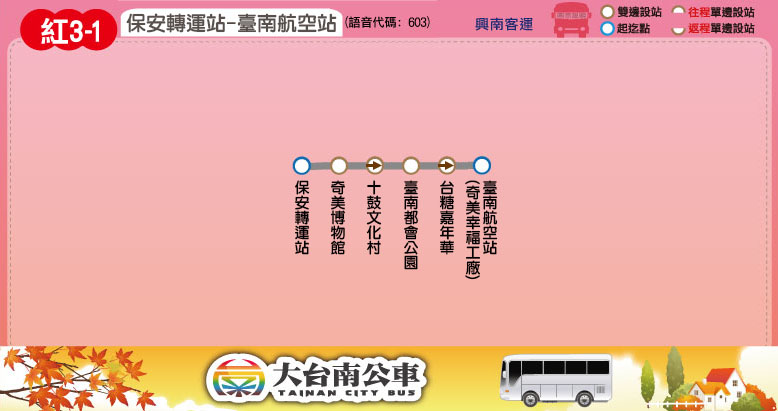
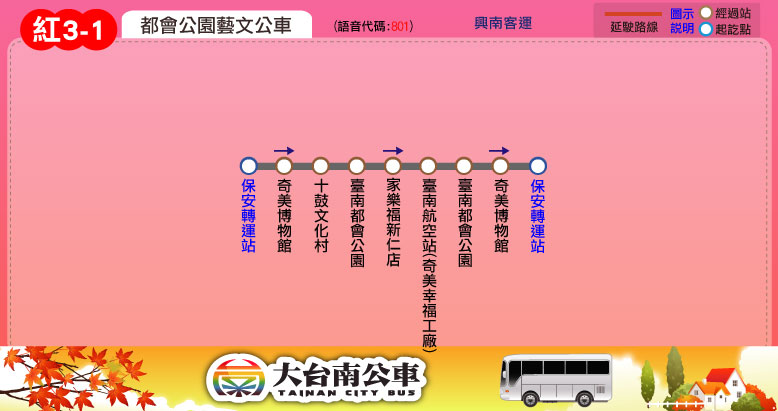
更新時刻表：藍幹線、藍2

diff --git a/route/fare_and_time/blue_2.js b/route/fare_and_time/blue_2.js
@@ -1,11 +1,15 @@
-blue_2_interval_name = ["佳里","佳里興","大灣","學甲","東中洲","溪底寮","北門","南鯤鯓"];
+blue_2_interval_name = ["佳里","佳里興","大灣","學甲","東中洲","溪底寮","三寮灣","蘆竹溝","三寮灣","北門","南鯤鯓"];
 blue_2_interval_stop = [
 ["佳里站","佳里公園"], // 佳里
 ["蕭壠文化園區","北門農工","奇美佳里分院","佳里興","佳里興北"], // 佳里興
-["營頂","溪州","大灣","清濟宮","中華、華宗路口"], // 大灣
-["東寮","學甲區公所","學甲","學甲市場","西學甲","下溪洲"], // 學甲
+["營頂","溪州","大灣","清濟宮"], // 大灣
+["中華、華宗路口","東寮","學甲區公所","學甲","學甲市場","西學甲","下溪洲"], // 學甲
 ["光華","東中洲"], // 東中洲
-["西廍","二重港","溪底寮","文山派出所","東三寮灣","三寮灣","蘆竹溝","北門國中","西保宮","溪仔寮","泰安宮","井仔腳","西山"], // 溪底寮
+["西廍","二重港","溪底寮","文山派出所"], // 溪底寮
+["東三寮灣","三寮灣"], // 三寮灣
+["蘆竹溝"], // 蘆竹溝
+["三寮灣","東三寮灣"],
+["文山派出所","北門國中","西保宮","溪仔寮","泰安宮","井仔腳","西山"], // 溪底寮
 ["北門區公所","北門","北門橋頭"], // 北門
 ["小蚵寮","蚵寮","南鯤鯓"] // 南鯤鯓
 ];
@@ -16,8 +20,12 @@ blue_2_fare = [
 [27,26,26,26],
 [36,26,26,26,26],
 [45,34,27,26,26,26],
-[56,45,38,29,26,26,26],
-[66,55,48,39,26,26,26,26]
+[53,42,35,26,26,26,26],
+[59,48,41,32,26,26,26,26],
+[53,42,35,26,26,26,26,26,26],
+[45,34,27,26,26,26,26,26,26,26],
+[56,45,38,29,26,26,26,26,26,26,26],
+[66,55,48,39,29,26,29,34,29,26,26,26]
 ];
 // format = [time at the start stop] or
 // [time, other] or
@@ -25,7 +33,11 @@ blue_2_fare = [
 blue_2_main_stop_name = ["佳里站","奇美<br />佳里分院","大灣","學甲","東中洲","溪底寮","北門國中","井仔腳","北門","南鯤鯓"];
 blue_2_main_stop_time_consume = [0, 5, 10, 15, 20, 24, 27, 30, 37, 45];
 blue_2_important_stop = [0, 3, 7, 9]; // 佳里站, 學甲, 井仔腳, 南鯤鯓
-blue_2_time_go = [["05:50",['繞',7]],["06:30",['繞',7,[8,-7,9,-3]]],["08:00"],["09:10"],["11:00"],["12:10"],["13:20"],["14:30"],
-["15:50"],["17:30"],["18:30"],["19:50",[7,[8,-7,9,-3]]],["20:30",[7,[8,-7,9,-3]]],["21:10",[7,[8,-7,9,-3]]],["22:00",[7,[8,-7,9,-3]]]];
-blue_2_time_return = [["06:35",[7,[8,-3,6,-7]]],["07:15",[7,[8,-3,6,-7]]],["08:45"],["09:55"],["11:45"],["12:55"],["14:05"],["15:15"],
-["16:45",['繞']],["18:15"],["19:15"],["20:30",[7,[8,-3,6,-7]]],["21:10",[7,[8,-3,6,-7]]],["22:00",[7,[8,-3,6,-7]]],["22:35",[7,[8,-3,6,-7]]]];
+var Beimen_Junior_High_School = 6;
+var Jingzihjiao = 7;
+var Beimen = 8;
+var Nankunshen = 9;
+blue_2_time_go = [["05:50",['繞',Jingzihjiao]],["06:30",['繞',Jingzihjiao]],["08:00"],["09:10"],["11:00"],["12:10"],["13:20"],["14:30"],
+["15:50",[Jingzihjiao,[Beimen,-7,Nankunshen,-3]]],["17:30"],["18:30"],["19:50",[Jingzihjiao,[Beimen,-2,Nankunshen,-3]]],["20:30",[Jingzihjiao,[Beimen,-7,Nankunshen,-3]]],["21:10",[Jingzihjiao,[Beimen,-7,Nankunshen,-3]]],["22:00",[Jingzihjiao,[Beimen,-7,Nankunshen,-3]]]];
+blue_2_time_return = [["06:35",[Jingzihjiao,[Beimen_Junior_High_School,-5]]],["07:15",[Jingzihjiao,[Beimen_Junior_High_School,-5]]],["08:45"],["09:55"],["11:45"],["12:55"],["14:05"],["15:15"],
+["16:45",['繞',Jingzihjiao]],["18:15"],["19:15"],["20:30",[Jingzihjiao,[Beimen,-3,Beimen_Junior_High_School,-7]]],["21:10",[Jingzihjiao,[Beimen,-3,Beimen_Junior_High_School,-7]]],["22:00",[Jingzihjiao,[Beimen,-3,Beimen_Junior_High_School,-7]]],["22:35",[Jingzihjiao,[Beimen,-3,Beimen_Junior_High_School,-7]]]];

diff --git a/route/fare_and_time/yellow_6_1.js b/route/fare_and_time/yellow_6_1.js
@@ -37,8 +37,8 @@ yellow_6_1_main_stop_time_consume = [0, 6, 17, 25, 30, 36, 47, 60];
 yellow_6_1_important_stop = [0, 3, 7]; // 新營站, 後壁區公所, 白河站
 var Sinying = 0; // 新營站
 var Linchu_Reservoir = 6; // 林初埤
-yellow_6_1_time_go = [["07:30"],["08:00",['加']],["08:30"],["10:10"],["10:40",['加']],["11:10"],["13:10"],["13:40",['加']],["14:10"],["15:40"],["16:10",['加']],["16:40"]];
-yellow_6_1_time_return = [["08:40",[[Linchu_Reservoir,-5,Sinying,5]]],["09:10",['加',[Linchu_Reservoir,-5,Sinying,5]]],["09:40",[[Linchu_Reservoir,-5,Sinying,5]]],
-["11:20",[[Linchu_Reservoir,-5,Sinying,5]]],["11:50",['加',[Linchu_Reservoir,-5,Sinying,5]]],["12:20",[[Linchu_Reservoir,-5,Sinying,5]]],
-["14:20",[[Linchu_Reservoir,-5,Sinying,5]]],["14:50",['加',[Linchu_Reservoir,-5,Sinying,5]]],["15:20",[[Linchu_Reservoir,-5,Sinying,5]]],
-["16:50",[[Linchu_Reservoir,-5,Sinying,5]]],["17:20",['加',[Linchu_Reservoir,-5,Sinying,5]]],["17:50",[[Linchu_Reservoir,-5,Sinying,5]]]];
+yellow_6_1_time_go = [["07:30"],["08:30"],["10:10"],["11:10"],["13:10"],["14:10"],["15:40"],["16:40"]];
+yellow_6_1_time_return = [["08:40",[[Linchu_Reservoir,-5,Sinying,5]]],["09:40",[[Linchu_Reservoir,-5,Sinying,5]]],
+["11:20",[[Linchu_Reservoir,-5,Sinying,5]]],["12:20",[[Linchu_Reservoir,-5,Sinying,5]]],
+["14:20",[[Linchu_Reservoir,-5,Sinying,5]]],["15:20",[[Linchu_Reservoir,-5,Sinying,5]]],
+["16:50",[[Linchu_Reservoir,-5,Sinying,5]]],["17:50",[[Linchu_Reservoir,-5,Sinying,5]]]];

diff --git a/route/fare_and_time/blue.js b/route/fare_and_time/blue.js
@@ -31,12 +31,12 @@ blue_important_stop = [0, 2, 9, 10]; // 安平工業區, 臺南火車站, 西港
 blue_time_go = [["05:50"],["06:00"],["06:15"],["06:30"],["06:45"],["07:15"],["07:30"],["07:45"],["08:00"],["08:15"],["08:45"],
 ["09:00"],["09:15"],["09:30"],["09:45",['L']],["10:00"],["10:15"],["10:30"],["10:45"],["11:00"],["11:30"],["12:00"],
 ["12:15"],["12:30"],["12:45"],["13:00",['L']],["13:30"],["13:45"],["14:00"],["14:30"],["15:00"],["15:15"],
-["15:30"],["16:00"],["16:30",['L']],["16:45"],["17:00"],["17:15"],["17:30"],["17:45"],["18:00"],["18:30"],["19:00"],
+["15:30"],["16:00"],["16:25",['L']],["16:45"],["17:00"],["17:15"],["17:30"],["17:45"],["18:00"],["18:30"],["19:00"],
 ["19:30"],["20:00"],["20:30"],["21:00"],["21:15"],["21:30"],["22:00"]
 ];
 blue_time_return = [["06:00"],["06:15"],["06:30"],["06:45"],["07:00"],["07:15"],["07:30"],["07:45"],["08:00"],["08:15"],["08:45"],
 ["09:00"],["09:15"],["09:30"],["09:45"],["10:00"],["10:30"],["10:45"],["11:00"],["11:30",['L']],["11:45"],["12:00"],["12:15"],
 ["12:30"],["12:45"],["13:00"],["13:30"],["13:45"],["14:00"],["14:30",['L']],["15:00"],["15:15"],["15:30"],
-["16:00"],["16:30"],["17:00"],["17:15"],["17:30"],["17:45"],["18:00",['L']],["18:30"],["18:45"],["19:00"],["19:30"],
+["16:00"],["16:30"],["16:55"],["17:15"],["17:30"],["17:45"],["18:05",['L']],["18:30"],["18:45"],["19:00"],["19:30"],
 ["20:00"],["20:30"],["21:00"],["21:15"],["21:30"],["22:00"]
 ];

diff --git a/route/fare_and_time/red_3_1.js b/route/fare_and_time/red_3_1.js
@@ -2,7 +2,7 @@ red_3_1_interval_name = ["保安<br />轉運站","臺南都<br />會公園","臺
 red_3_1_interval_stop = [
 ["保安轉運站"], // 保安轉運站
 ["奇美博物館","十鼓文化村","臺南都會公園"], // 臺南都會公園
-["台糖嘉年華","臺南航空站(奇美幸福工廠)"] // 臺南航空站
+["家樂福新仁店","臺南航空站(奇美幸福工廠)"] // 臺南航空站
 ];
 red_3_1_fare = [
 [26],
@@ -12,7 +12,7 @@ red_3_1_fare = [
 // format = [time at the start stop] or
 // [time, other] or
 // [time, start_stop, end_stop, other]
-red_3_1_main_stop_name = ["保安轉運站","奇美<br />博物館","十鼓<br />文化村","臺南<br />都會公園","台糖<br />嘉年華","臺南航空站<br />(奇美幸福工廠)"];
+red_3_1_main_stop_name = ["保安轉運站","奇美<br />博物館","十鼓<br />文化村","臺南<br />都會公園","家樂福<br />新仁店","臺南航空站<br />(奇美幸福工廠)"];
 red_3_1_main_stop_time_consume = [0, 3, 4, 6, 8, 10];
 skip_stop_list = [2,4];
 red_3_1_important_stop = [0, 1, 5]; // 保安轉運站, 奇美博物館, 臺南航空站

diff --git a/orange/orange_9.html b/orange/orange_9.html
@@ -22,7 +22,7 @@
 	block_header();
 	block_route_map(null);
 	block_route_info(route_interval,'漢程客運','','里程計費','http://www.2384.com.tw/ebus/jsp/ajaxBus.jsp?pathId=1409&locale=zh_TW',[['一~四','normal'],['五~日','holiday']]);
-	block_fare(0, '<span style="color: blue; font-size: 24px; font-weight: bold;">上路首月（108年12月5日至109年1月4日）採各站均一優惠票價100元，<br />而第2~3月（109年1月5日至109年3月4日）為各站均一現金優惠票價130元，<br />另持電子票證搭乘可再享有8公里免費（省26元）</span>');
+	block_fare(0, null);
 	block_multiple_time_schedule( [['<span style="color: blue;">一~四</span>','normal'],['<span style="color: red;">五~日</span>','holiday']],'<span style="color: blue; font-size: 24px;">一~四：於星期一～星期四行駛，但不含國定假日</span><br /><span style="color: red; font-size: 24px;">五~日：於星期五、六、日行駛，且包含國定假日</span>');
 	block_transfer(transfer_madou + transfer_jiali + transfer_hsr_chiayi_station);
 	block_copyright();

diff --git a/yellow/yellow_6-1.html b/yellow/yellow_6-1.html
@@ -20,7 +20,7 @@
 	block_route_map(null);
 	block_route_info(route_interval,'新營客運','僅假日行駛','里程計費','http://www.2384.com.tw/ebus/jsp/ajaxBus.jsp?pathId=1802&locale=zh_TW');
 	block_fare(0, null);
-	block_time_schedule('新營','白河','<h1><span style="color: red;">僅假日行駛：六、日以及國定假日</span></h1><span style="font-size: 18px; font-weight: bold;">「加」表示配合臺南白河木棉花季民眾賞花乘車需求，<br />於109年2月22、23、28、29日及3月1、7、8、14、15日加開之班次。</span>');
+	block_time_schedule('新營','白河','<h1><span style="color: red;">僅假日行駛：六、日以及國定假日</span></h1>');
 	block_transfer(transfer_hsinyin + transfer_houbi_railway_station + transfer_baihe);
 	block_copyright();
 </script>

diff --git a/red/red_11.html b/red/red_11.html
@@ -17,7 +17,7 @@
 <body>
 <script type="text/javascript">
 	block_header();
-	block_route_map('<p>為配合『龍崎區南167線2K+400（牛埔高分60）道路災害復建工程』，<span style="color: blue;background-color: white;font-weight: bold;">自108年4月10日起</span>至施工完成，本公司營運路線紅11<span style="color: red;background-color: white;font-weight: bold;">「牛埔農塘」招呼站暫不停靠</span>，請乘客至「牛埔製麵廠」招呼站搭乘，不便之處,敬請見諒。</p>');
+	block_route_map(null);
 	block_route_info(route_interval,'興南客運','','里程計費','http://www.2384.com.tw/ebus/jsp/ajaxBus.jsp?pathId=1611&locale=zh_TW');
 	block_fare(0, null);
 	block_time_schedule('關廟國中','牛埔農塘','');

diff --git a/hsr_shuttle/166.html b/hsr_shuttle/166.html
@@ -21,7 +21,7 @@
 	block_header();
 	block_route_map(null);
 	block_route_info(route_interval,'阿里山客運','','里程計費','http://www.taiwanbus.tw/information.aspx?Lang=Cht&Line=10342');
-	block_fare(10, '<h3>108年7月1日至108年12月31日止，搭乘166路公車只需要10元(不限里程)。</h3>');
+	block_fare(10, '');
 	block_time_schedule('鹽水','高鐵嘉義站','');
 	block_transfer(transfer_yanshui + transfer_hsr_chiayi_station);
 	block_copyright();
